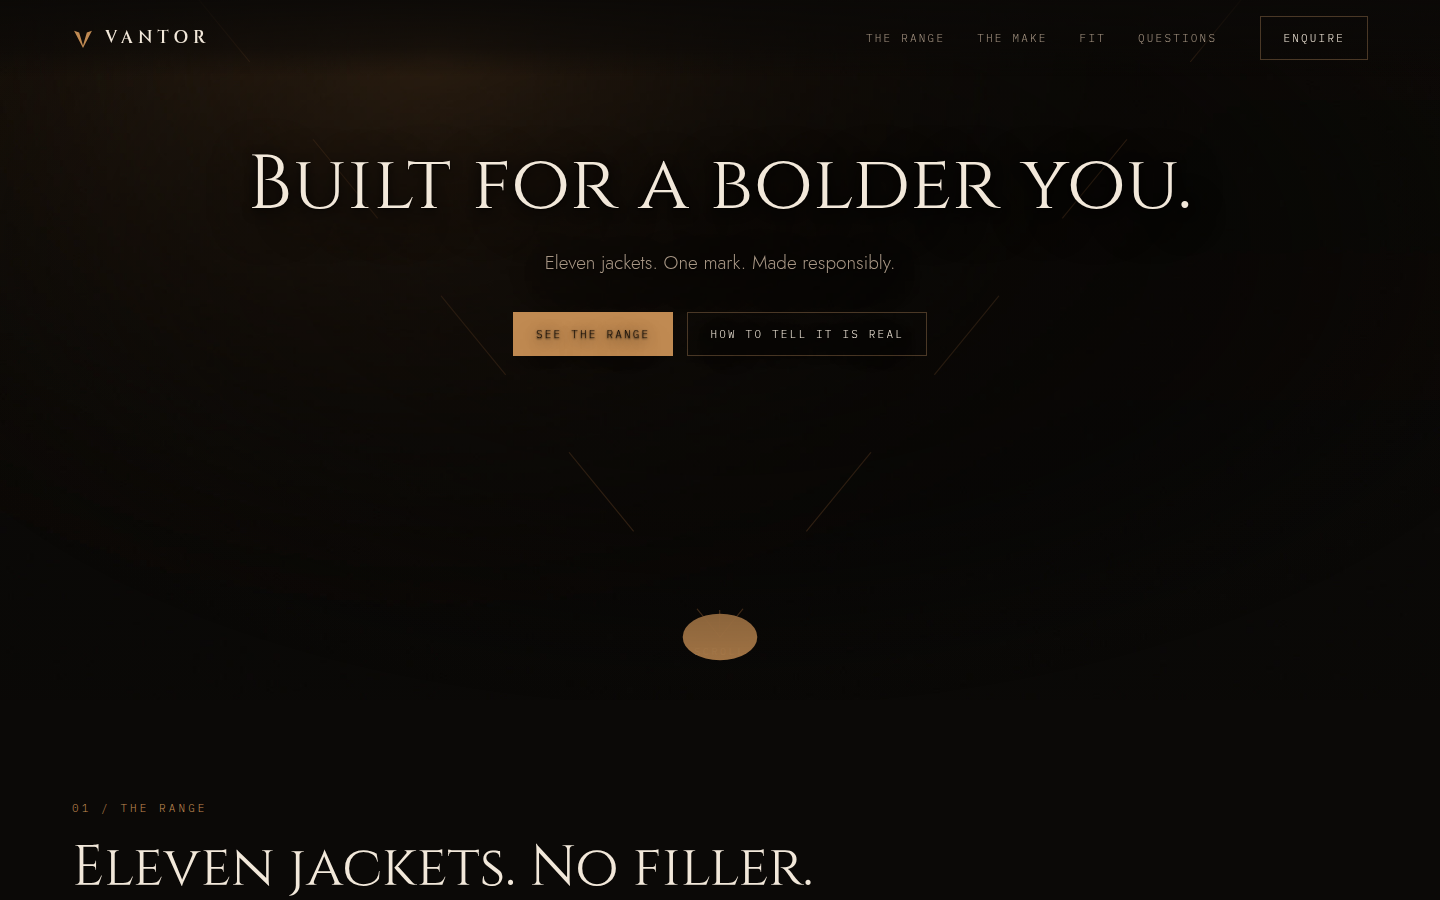
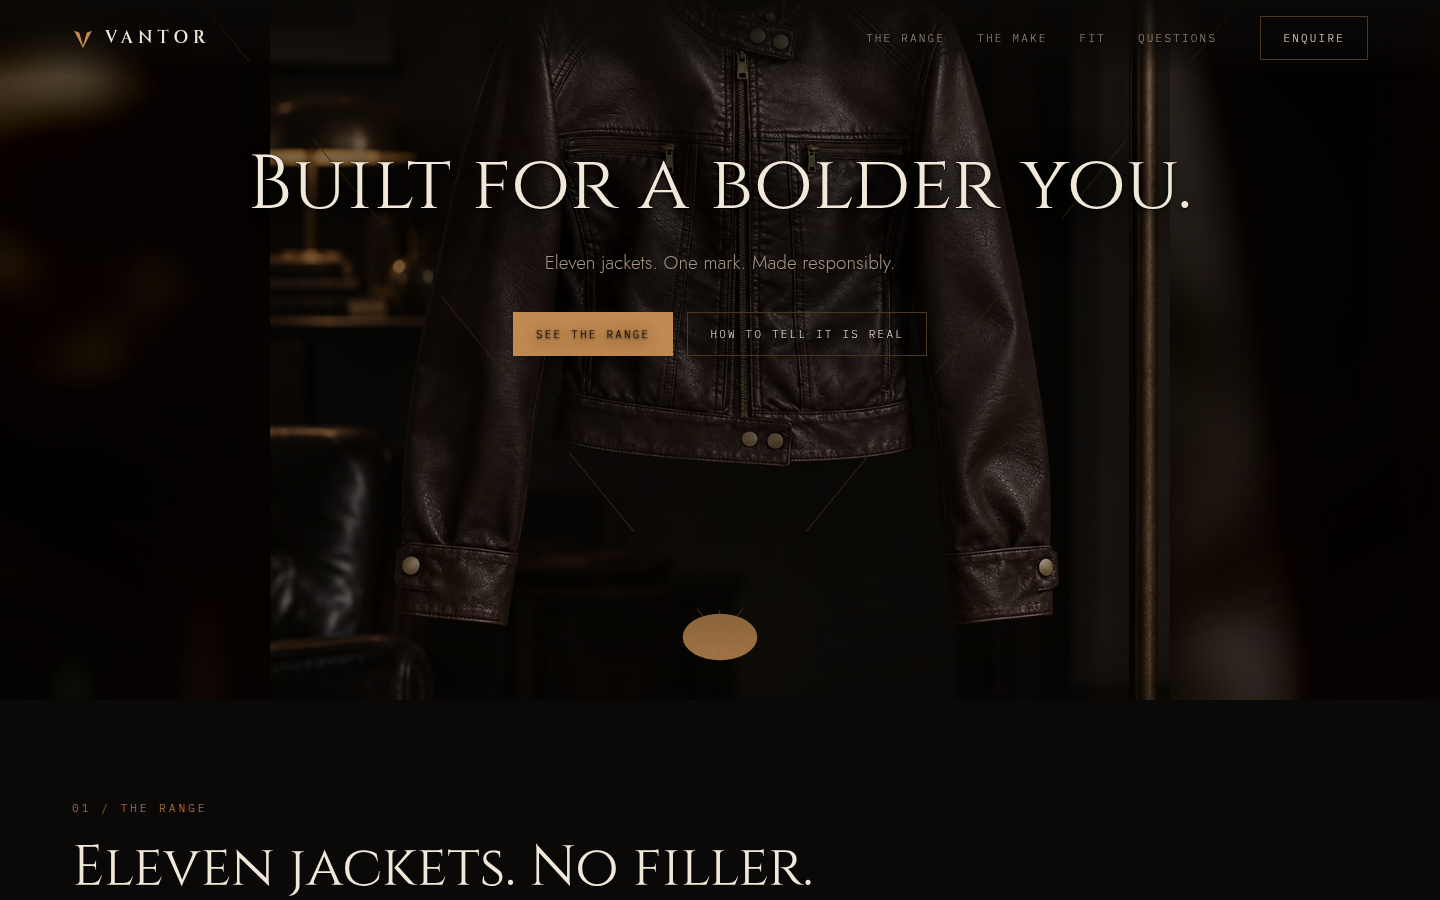
Wire in the generated frame, fix the hold and the empty static hero
The generated frame came back square rather than 16:9, so rather than cropping
the collar off it is extended sideways: the square is scaled and blurred to fill
16:9 behind itself, with the sharp square centred on top. The room is already
near black at both edges so the join does not read, and the garment stays whole
with the margin above and below that a cover crop needs.

Three fixes found by auditing against real Chromium:

- The press and hold un-drew itself on release. Completing it set holder-done,
  but the ease-down then ran anyway and the V retreated while the story stayed
  revealed. Once a visitor has earned it, it holds.
- The static hero had no image at all. The poster was only ever painted inside
  the scrub path, so every gated screen, which is every phone, got an empty
  stage. Gated screens now paint their own portrait crop and still never request
  the video or the wide poster.
- The static hero had no scrim of its own, so its copy sat raw on the garment.

Measured, not assumed:
- Flick test passes. Every band holds full opacity for 6 to 8 normal 120px
  flicks, and none is skippable at an aggressive 360px double flick.
- Worst pixel contrast under each band, scrim applied, glyphs hidden:
  band 1 5.61:1, bands 2 to 4 4.07:1, against a 3.5:1 floor.
- All five static hero gates verified with real touch emulation, and reduced
  motion verified flipping live in both directions.
- No horizontal overflow at 1440, 1400, 820, 812 or 375 wide.
[…]

diff --git a/site/index.html b/site/index.html
@@ -170,7 +170,11 @@ a{color:inherit}
 
 /* ---------- static hero (the five gates) ---------- */
 .static-hero{display:none;position:absolute;inset:0;z-index:5;
-  padding:0 var(--gutter);place-items:center;text-align:center}
+  padding:0 var(--gutter);place-items:end center;text-align:center;
+  padding-bottom:clamp(38px,9vh,90px)}
+.static-hero::before{content:"";position:absolute;inset:0;pointer-events:none;
+  background:linear-gradient(180deg,rgba(9,7,5,.62) 0%,rgba(9,7,5,.18) 34%,rgba(9,7,5,.72) 72%,rgba(9,7,5,.93) 100%)}
+.static-hero > div{position:relative}
 .static-hero h1{font-family:var(--display);font-weight:400;margin:0;
   font-size:clamp(34px,9vw,62px);line-height:1.08;text-shadow:var(--tshadow)}
 .static-hero p{margin:20px auto 0;max-width:30ch;color:var(--text-secondary);text-shadow:var(--tshadow)}
@@ -629,7 +633,8 @@ var GATES = [
 ];
 
 var VIDEO_URL = 'assets/hero-scrub.mp4';
-var POSTER_URL = 'assets/hero-poster.jpg';
+var POSTER_URL = 'assets/hero-poster.jpg';   /* 16:9, behind the scrub */
+var STILL_URL  = 'assets/hero-still.jpg';    /* portrait, for the gated static hero */
 var VIDEO_BYTES = 6000000;   /* real byte size, filled in when the film lands */
 
 var video = $('#hero'), stage = $('#stage'), ring = $('#ring'),
@@ -823,6 +828,7 @@ function initHeroOnce(){
   if(heroInit) return; heroInit = true;
   initV();
   posterLayer.style.backgroundImage = "url('" + POSTER_URL + "')";
+  stillSet = false;   /* the wide poster owns the layer again */
   var img = new Image();
   img.onload = startBlobFetch;
   img.onerror = startBlobFetch;
@@ -836,6 +842,7 @@ var scrubOn = false;
 function enableScrub(){
   if(scrubOn) return; scrubOn = true;
   initHeroOnce();
+  posterLayer.style.backgroundImage = "url('" + POSTER_URL + "')";
   window.addEventListener('scroll', onScroll, { passive:true });
   bands.forEach(function(b){ b.op = -1; b.k = -1; });
   lastV = -1;
@@ -843,7 +850,16 @@ function enableScrub(){
   updateCaptions(heroProgress());
   onScroll();
 }
+var stillSet = false;
+function showStaticStill(){
+  /* The static hero is a designed layout, not an apology, so it needs its own
+     image. This is the portrait crop, a fraction of the video's weight, and the
+     video and the wide poster are never requested on these screens. */
+  if(stillSet) return; stillSet = true;
+  posterLayer.style.backgroundImage = "url('" + STILL_URL + "')";
+}
 function disableScrub(){
+  showStaticStill();
   if(!scrubOn) return; scrubOn = false;
   window.removeEventListener('scroll', onScroll);
   if(rafId !== null){ cancelAnimationFrame(rafId); rafId = null; }
@@ -894,12 +910,18 @@ function paintHold(){
   htip.style.transform = 'scale(' + (0.6 + smoothstep(hp,0.86,1)*0.7).toFixed(3) + ')';
 }
 function holdTick(){
+  /* Releasing early eases the progress back down, it never snaps. But once the
+     visitor has completed it, the V stays drawn: they earned it, and watching it
+     retreat on release reads as the page undoing their work. */
+  if(hDone){ hp = 1; paintHold(); hRaf = null; return; }
   hp = holding ? Math.min(1, hp + 0.016) : Math.max(0, hp - 0.022);
   paintHold();
-  if(hp >= 1 && !hDone){
+  if(hp >= 1){
     hDone = true;
     holder.classList.add('complete');
     moment.classList.add('holder-done');
+    hRaf = null;
+    return;
   }
   if((holding && hp < 1) || (!holding && hp > 0)){ hRaf = requestAnimationFrame(holdTick); }
   else { hRaf = null; }
